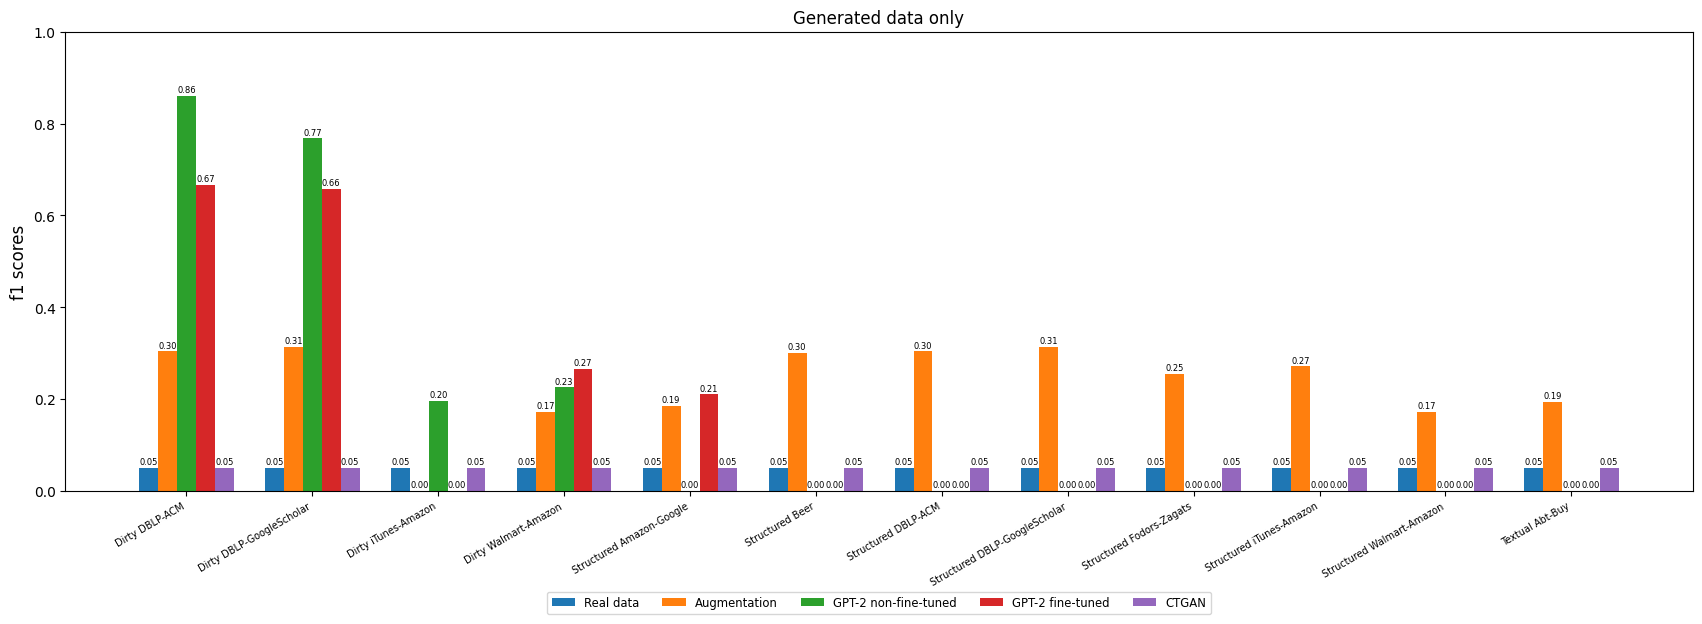
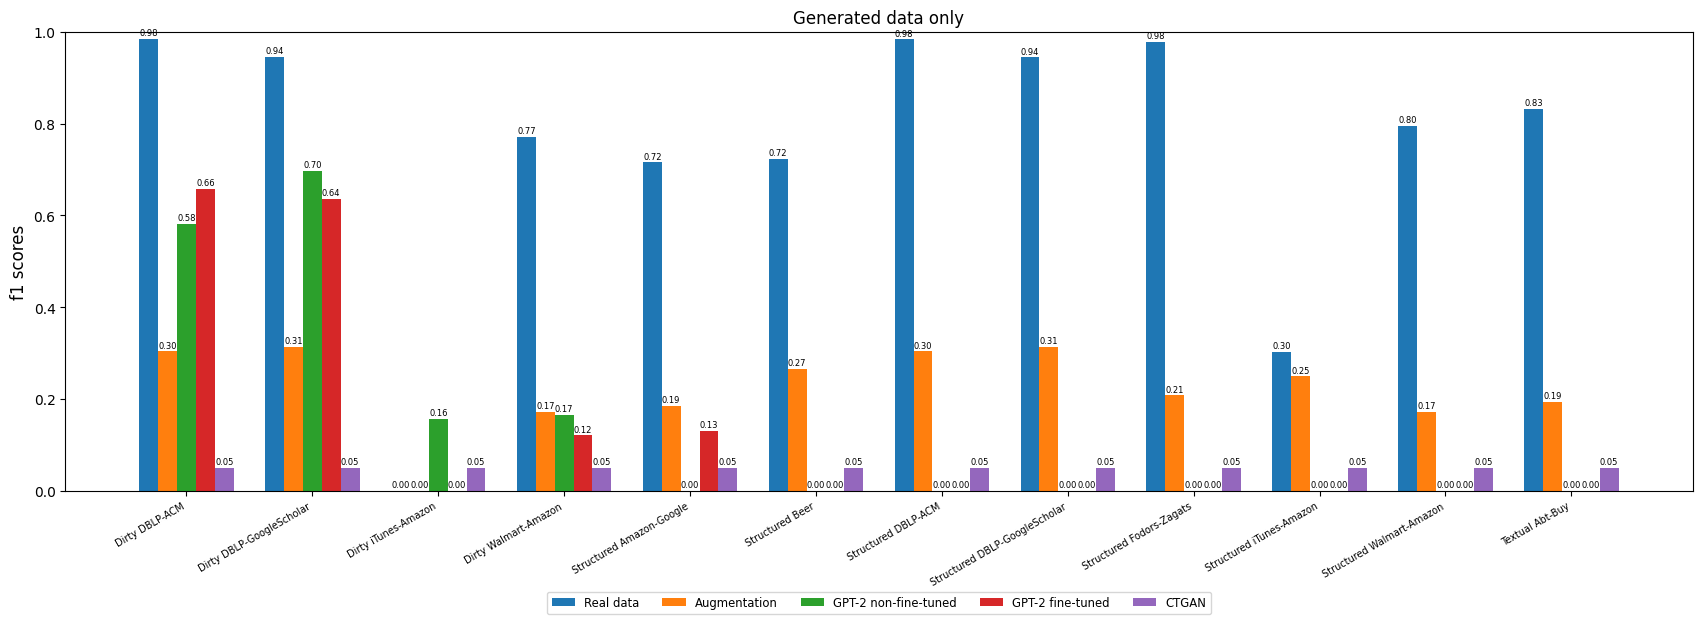
new changes

diff --git a/ditto/Writer_output/graph_maker.py b/ditto/Writer_output/graph_maker.py
@@ -4,7 +4,7 @@ import os
 
 def get_best_average_f1(dataset):
     # Setting up the 20 epochs that ditto does
-    epochs = [0.0 for _ in range(20)]
+    f1 = 0
     # Adding up the f1 scores throughout all runs of ditto for each epoch
     for run in os.listdir(dataset):
         with open(dataset + "/" + run) as txt:
@@ -15,12 +15,11 @@ def get_best_average_f1(dataset):
                 if parts[0] == "epoch":
                     # Add this epochs f1 score to the corresponding epoch sum in the array
                     epoch = int(parts[1].replace(":", ""))-1
-                    epochs[epoch] += float(parts[3].replace("f1=", "").replace(",", ""))
-    # Averaging out each epoch
-    for i in range(len(epochs)):
-        epochs[i] = epochs[i]/len(os.listdir(dataset))
-    # Returning the best average f1 score
-    return max(epochs)
+                    if epoch == 19: f1 += float(parts[3].replace("f1=", "").replace(",", ""))
+
+    f1 = f1/len(os.listdir(dataset))
+    
+    return f1
 
 def make_plot(plot_type, title, decimated=True):
     # Setting up the arrays for the columns
@@ -35,7 +34,9 @@ def make_plot(plot_type, title, decimated=True):
     # For each dataset
     for i in range(len(labels)):
         # For each permutation of datasets
-        for key in er_magellan[labels[i]].keys():
+        for key in er_magellan[labels[i]]:
+            if "Baseline" in key and "decimated" not in key: baseline[i] = er_magellan[labels[i]][key]
+            if "Baseline decimated" in key: baseline_decimated[i] = er_magellan[labels[i]][key]
             # Select the correct permutation to plot
             if plot_type in key:
                 # Decimated interaction
@@ -43,8 +44,6 @@ def make_plot(plot_type, title, decimated=True):
                     # Select only the decimated permutation
                     if "decimated" in key:
                         # Insert the values of the columns into the columns
-                        if key == "Baseline": baseline[i] = er_magellan[labels[i]][key]
-                        if key == "Baseline decimated": baseline_decimated[i] = er_magellan[labels[i]][key]
                         if "Augmentation" in key: augmentation[i] = er_magellan[labels[i]][key]
                         if "GPT-2" in key and "nft" in key: gpt2_nft[i] = er_magellan[labels[i]][key]
                         if "GPT-2" in key and "nft" not in key: gpt2_ft[i] = er_magellan[labels[i]][key]
@@ -53,7 +52,6 @@ def make_plot(plot_type, title, decimated=True):
                     # Select only the non-decimated permutation
                     if "decimated" not in key:
                         # Insert the values of the columns into the columns
-                        if key == "Baseline": baseline[i] = er_magellan[labels[i]][key]
                         if "Augmentation" in key: augmentation[i] = er_magellan[labels[i]][key]
                         if "GPT-2" in key and "nft" in key: gpt2_nft[i] = er_magellan[labels[i]][key]
                         if "GPT-2" in key and "nft" not in key: gpt2_ft[i] = er_magellan[labels[i]][key]

diff --git a/GPT-2/check_progress.py b/GPT-2/check_progress.py
@@ -128,5 +128,4 @@ for job in er_magellan:
 sorted_progress = sorted(progress.items(), key=lambda x : x[1][0]/x[1][1], reverse=True)
 
 for item in sorted_progress:
-    if 1-(item[1][0]/item[1][1]) > 0.02:
-        print(f"{item[0]}:\t{round((item[1][0]/item[1][1])*100, 2)}%\t{item[1][0]}/{item[1][1]}")
+    print(f"{item[0]}:\t{round((item[1][0]/item[1][1])*100, 2)}%\t{item[1][0]}/{item[1][1]}")
